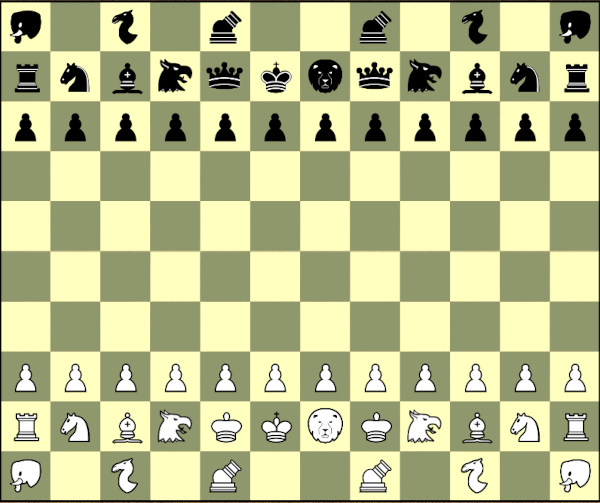
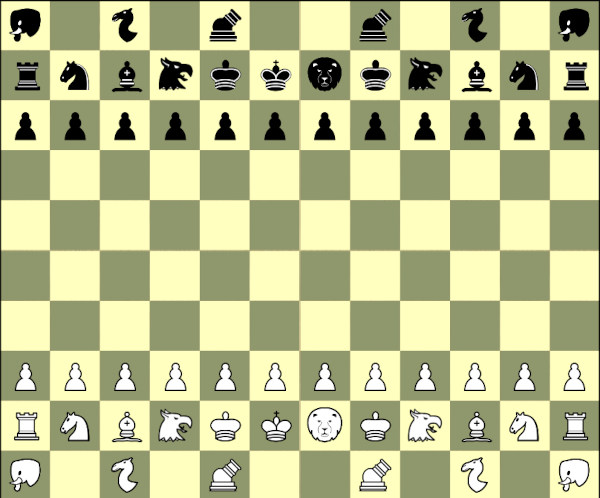
black man for timurid

diff --git a/src/games/chessbase/duodecimal/timurid-model.js b/src/games/chessbase/duodecimal/timurid-model.js
@@ -133,7 +133,7 @@
       3: {
       name : 'princeb',
       abbrev : 'I',
-      aspect : 'fr-prince',
+      aspect : 'fr-man',
       graph : this.cbKingGraph(geometry,confine),
       value : 3.5,
       initial: [{s:-1,p:100},{s:-1,p:103}],
